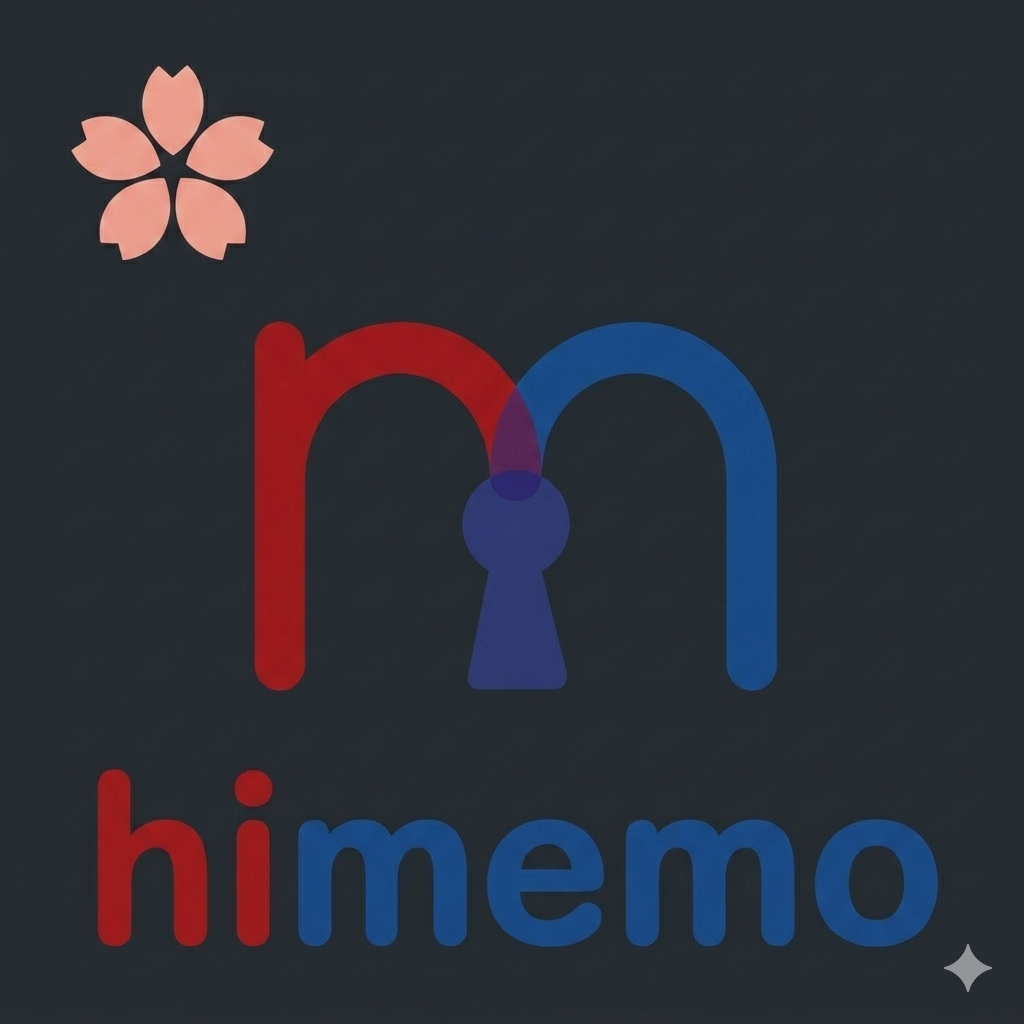
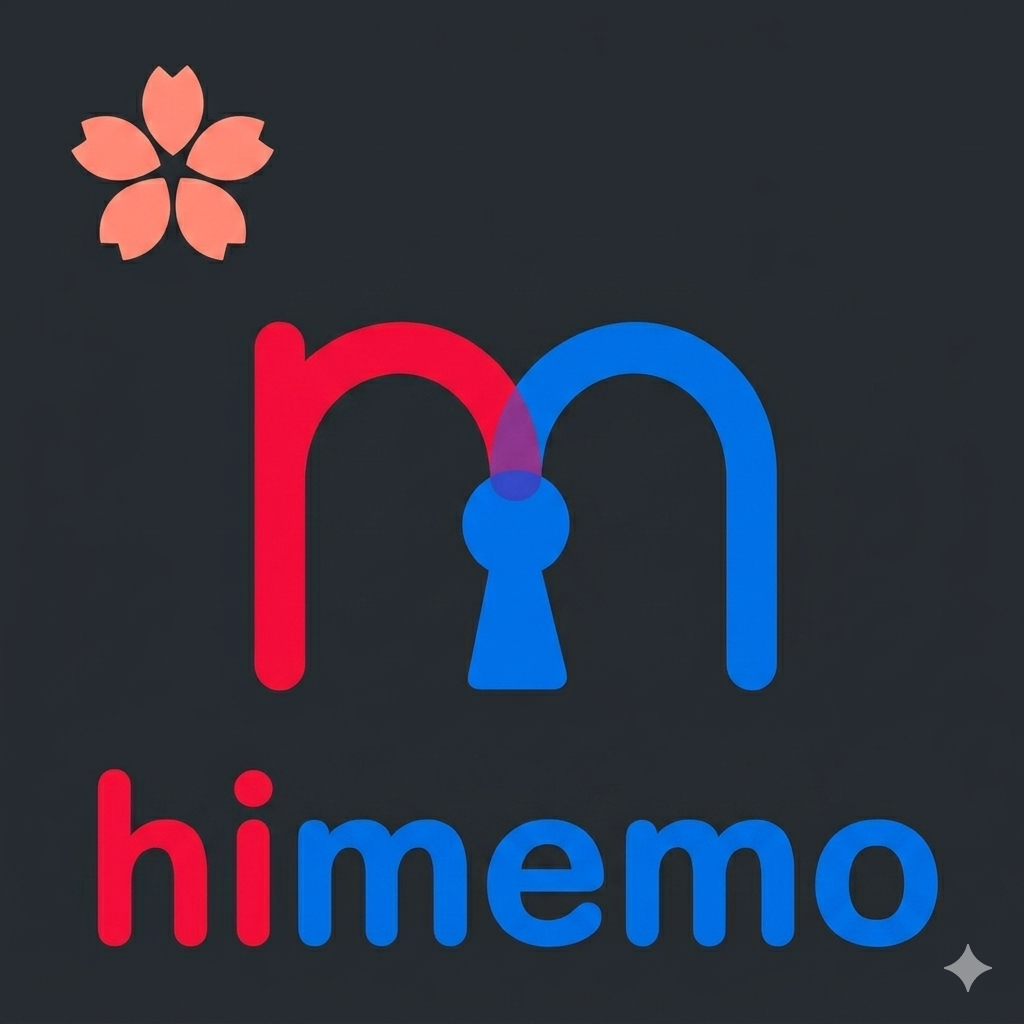
feat: refresh onboarding and dark splash assets

Changed region(s): [[0.0938, 0.75, 0.9375, 0.9375], [0.25, 0.3125, 0.7812, 0.6875], [0.0625, 0.0625, 0.25, 0.25]]

diff --git a/lib/app/app.dart b/lib/app/app.dart
@@ -174,24 +174,36 @@ class _OnboardingScreenState extends ConsumerState<_OnboardingScreen> {
   final PageController _pageController = PageController();
   int _pageIndex = 0;
 
-  final List<({String title, String body, IconData icon})> _pages = const [
+  final List<({
+    String title,
+    String body,
+    IconData icon,
+    String imagePath,
+    String imageSemanticLabel,
+  })> _pages = const [
     (
       title: 'Capture fast',
       body:
           'The first line becomes the memo title, so quick notes stay lightweight from the first tap.',
       icon: Icons.bolt_rounded,
+      imagePath: 'assets/onboarding/capture.png',
+      imageSemanticLabel: 'Quick memo capture preview',
     ),
     (
       title: 'Separate private access',
       body:
           'Keep app unlock and private-vault unlock separate. Sensitive notes can stay behind their own key.',
       icon: Icons.lock_person_rounded,
+      imagePath: 'assets/onboarding/private.png',
+      imageSemanticLabel: 'Private vault unlock preview',
     ),
     (
       title: 'Prepare sync later',
       body:
           'Choose iCloud or Google Drive as the future sync target without turning your own server into a dependency.',
       icon: Icons.cloud_sync_rounded,
+      imagePath: 'assets/onboarding/sync.png',
+      imageSemanticLabel: 'Cloud sync target preview',
     ),
   ];
 
@@ -262,38 +274,62 @@ class _OnboardingScreenState extends ConsumerState<_OnboardingScreen> {
                   },
                   itemBuilder: (context, index) {
                     final page = _pages[index];
-                    return Container(
-                      margin: const EdgeInsets.only(bottom: 12),
-                      padding: const EdgeInsets.all(24),
-                      decoration: BoxDecoration(
-                        color: colorScheme.surface,
-                        borderRadius: BorderRadius.circular(24),
-                        border: Border.all(color: Theme.of(context).dividerColor),
-                      ),
-                      child: Column(
-                        crossAxisAlignment: CrossAxisAlignment.start,
-                        children: [
-                          Container(
-                            width: 56,
-                            height: 56,
-                            decoration: BoxDecoration(
-                              color: colorScheme.primary.withValues(alpha: 0.12),
-                              borderRadius: BorderRadius.circular(18),
+                    return LayoutBuilder(
+                      builder: (context, constraints) {
+                        return Container(
+                          margin: const EdgeInsets.only(bottom: 12),
+                          padding: const EdgeInsets.all(24),
+                          decoration: BoxDecoration(
+                            color: colorScheme.surface,
+                            borderRadius: BorderRadius.circular(24),
+                            border: Border.all(
+                              color: Theme.of(context).dividerColor,
                             ),
-                            child: Icon(page.icon, color: colorScheme.primary),
                           ),
-                          const SizedBox(height: 24),
-                          Text(
-                            page.title,
-                            style: Theme.of(context).textTheme.titleLarge,
+                          child: SingleChildScrollView(
+                            child: ConstrainedBox(
+                              constraints: BoxConstraints(
+                                minHeight: constraints.maxHeight - 48,
+                              ),
+                              child: Column(
+                                crossAxisAlignment: CrossAxisAlignment.start,
+                                children: [
+                                  Container(
+                                    width: 56,
+                                    height: 56,
+                                    decoration: BoxDecoration(
+                                      color: colorScheme.primary.withValues(
+                                        alpha: 0.12,
+                                      ),
+                                      borderRadius: BorderRadius.circular(18),
+                                    ),
+                                    child: Icon(
+                                      page.icon,
+                                      color: colorScheme.primary,
+                                    ),
+                                  ),
+                                  const SizedBox(height: 24),
+                                  _OnboardingImageCard(
+                                    imagePath: page.imagePath,
+                                    semanticLabel: page.imageSemanticLabel,
+                                    fallbackIcon: page.icon,
+                                  ),
+                                  const SizedBox(height: 24),
+                                  Text(
+                                    page.title,
+                                    style: Theme.of(context).textTheme.titleLarge,
+                                  ),
+                                  const SizedBox(height: 12),
+                                  Text(
+                                    page.body,
+                                    style: Theme.of(context).textTheme.bodyLarge,
+                                  ),
+                                ],
+                              ),
+                            ),
                           ),
-                          const SizedBox(height: 12),
-                          Text(
-                            page.body,
-                            style: Theme.of(context).textTheme.bodyLarge,
-                          ),
-                        ],
-                      ),
+                        );
+                      },
                     );
                   },
                 ),
@@ -330,6 +366,87 @@ class _OnboardingScreenState extends ConsumerState<_OnboardingScreen> {
                     child: Text(isLastPage ? 'Start' : 'Next'),
                   ),
                 ],
+              ),
+            ],
+          ),
+        ),
+      ),
+    );
+  }
+}
+
+class _OnboardingImageCard extends StatelessWidget {
+  const _OnboardingImageCard({
+    required this.imagePath,
+    required this.semanticLabel,
+    required this.fallbackIcon,
+  });
+
+  final String imagePath;
+  final String semanticLabel;
+  final IconData fallbackIcon;
+
+  @override
+  Widget build(BuildContext context) {
+    final colorScheme = Theme.of(context).colorScheme;
+
+    return ClipRRect(
+      borderRadius: BorderRadius.circular(18),
+      child: AspectRatio(
+        aspectRatio: 16 / 9,
+        child: ColoredBox(
+          color: colorScheme.surfaceContainerHighest,
+          child: Stack(
+            fit: StackFit.expand,
+            children: [
+              Image.asset(
+                imagePath,
+                fit: BoxFit.cover,
+                semanticLabel: semanticLabel,
+                filterQuality: FilterQuality.medium,
+                errorBuilder: (context, error, stackTrace) {
+                  return DecoratedBox(
+                    decoration: BoxDecoration(
+                      gradient: LinearGradient(
+                        begin: Alignment.topLeft,
+                        end: Alignment.bottomRight,
+                        colors: [
+                          colorScheme.surfaceContainerHighest,
+                          colorScheme.primary.withValues(alpha: 0.16),
+                        ],
+                      ),
+                    ),
+                    child: Center(
+                      child: Column(
+                        mainAxisSize: MainAxisSize.min,
+                        children: [
+                          Icon(
+                            fallbackIcon,
+                            size: 40,
+                            color: colorScheme.primary,
+                          ),
+                          const SizedBox(height: 12),
+                          Text(
+                            'Add an onboarding image',
+                            style: Theme.of(context).textTheme.labelLarge,
+                          ),
+                        ],
+                      ),
+                    ),
+                  );
+                },
+              ),
+              DecoratedBox(
+                decoration: BoxDecoration(
+                  gradient: LinearGradient(
+                    begin: Alignment.topCenter,
+                    end: Alignment.bottomCenter,
+                    colors: [
+                      Colors.transparent,
+                      colorScheme.surface.withValues(alpha: 0.08),
+                    ],
+                  ),
+                ),
               ),
             ],
           ),
@@ -462,9 +579,9 @@ _ThemePalette _paletteFor(AppColorTheme theme, Brightness brightness) {
               surfaceContainerHighest: Color(0xFF2D3B47),
               outline: Color(0xFF51616D),
               outlineVariant: Color(0xFF3E4D58),
-              scaffoldBackground: Color(0xFF10181F),
-              appBarBackground: Color(0xFF10181F),
-              navigationBackground: Color(0xFF162029),
+              scaffoldBackground: Color(0xFF272C32),
+              appBarBackground: Color(0xFF272C32),
+              navigationBackground: Color(0xFF272C32),
             )
           : const _ThemePalette(
               primary: Color(0xFF005AA3),
@@ -500,9 +617,9 @@ _ThemePalette _paletteFor(AppColorTheme theme, Brightness brightness) {
               surfaceContainerHighest: Color(0xFF2D3F33),
               outline: Color(0xFF53655A),
               outlineVariant: Color(0xFF3E5145),
-              scaffoldBackground: Color(0xFF101813),
-              appBarBackground: Color(0xFF101813),
-              navigationBackground: Color(0xFF16211A),
+              scaffoldBackground: Color(0xFF272C32),
+              appBarBackground: Color(0xFF272C32),
+              navigationBackground: Color(0xFF272C32),
             )
           : const _ThemePalette(
               primary: Color(0xFF2F6B3C),
@@ -538,9 +655,9 @@ _ThemePalette _paletteFor(AppColorTheme theme, Brightness brightness) {
               surfaceContainerHighest: Color(0xFF433329),
               outline: Color(0xFF766253),
               outlineVariant: Color(0xFF5E4B3F),
-              scaffoldBackground: Color(0xFF17110D),
-              appBarBackground: Color(0xFF17110D),
-              navigationBackground: Color(0xFF211812),
+              scaffoldBackground: Color(0xFF272C32),
+              appBarBackground: Color(0xFF272C32),
+              navigationBackground: Color(0xFF272C32),
             )
           : const _ThemePalette(
               primary: Color(0xFF9A4E00),

diff --git a/web/index.html b/web/index.html
@@ -31,7 +31,8 @@
   <link rel="manifest" href="manifest.json">
 
 
-  <meta content="width=device-width, initial-scale=1.0, maximum-scale=1.0, user-scalable=no" name="viewport">
+
+
   <style id="splash-screen-style">
     html {
       height: 100%
@@ -92,7 +93,7 @@
 
     @media (prefers-color-scheme: dark) {
       body {
-        background-color: #10181F;
+        background-color: #272C32;
           }
     }
   </style>
@@ -103,6 +104,7 @@
       document.body.style.background = "transparent";
     }
   </script>
+  <meta content="width=device-width, initial-scale=1.0, maximum-scale=1.0, user-scalable=no" name="viewport">
 </head>
 <body>
   <picture id="splash">
@@ -110,6 +112,8 @@
       <source srcset="splash/img/dark-1x.png 1x, splash/img/dark-2x.png 2x, splash/img/dark-3x.png 3x, splash/img/dark-4x.png 4x" media="(prefers-color-scheme: dark)">
       <img class="center" aria-hidden="true" src="splash/img/light-1x.png" alt="">
   </picture>
+
+
 
   <!--
     You can customize the "flutter_bootstrap.js" script.
@@ -120,6 +124,8 @@
     * https://docs.flutter.dev/platform-integration/web/initialization
   -->
   <script src="flutter_bootstrap.js" async=""></script>
+
+
 
 
 </body></html>
